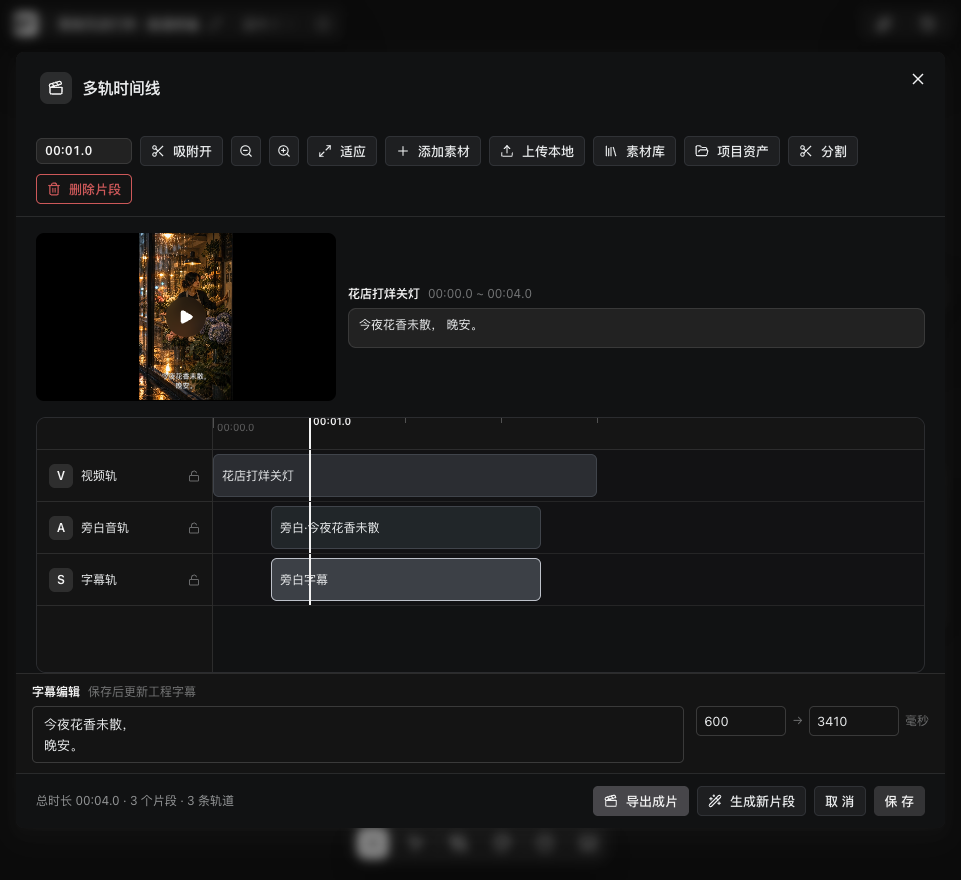
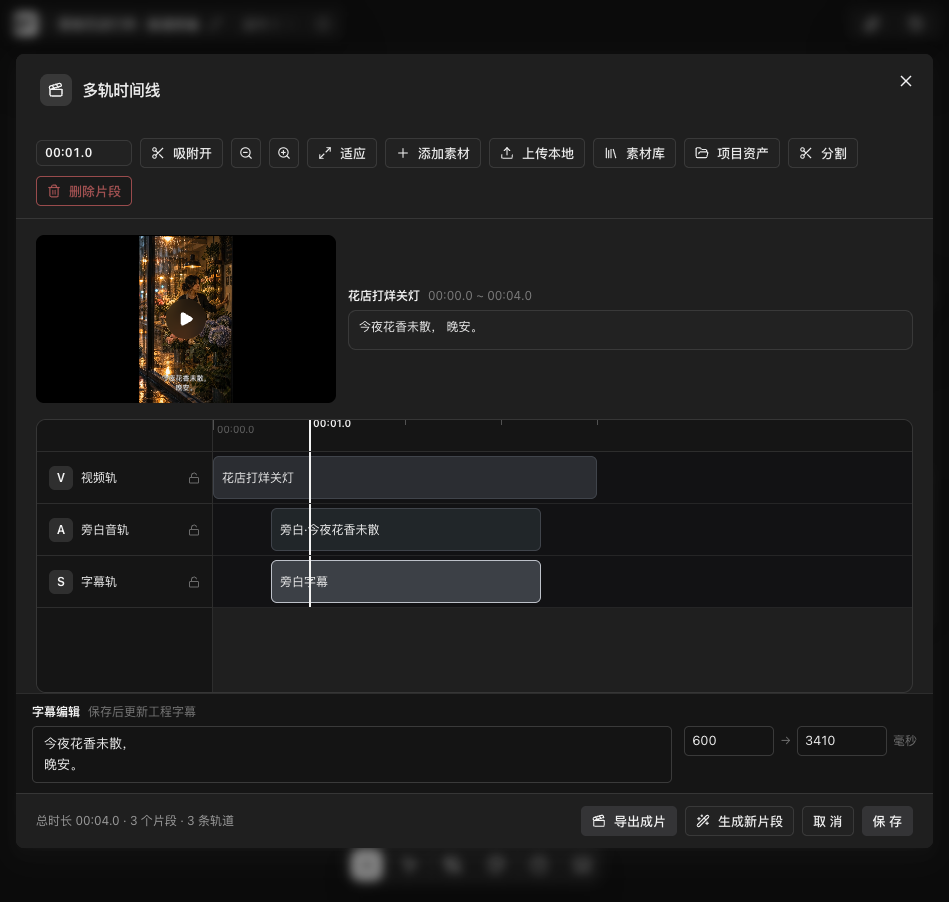
fix(editor): 剪辑面板 - 使用当前主题保持文字可读

diff --git a/web/src/components/canvas/canvas-timeline-dialog.tsx b/web/src/components/canvas/canvas-timeline-dialog.tsx
@@ -6,7 +6,7 @@ import { Tooltip } from "@/components/ui/base/tooltip";
 // 数据源是项目级 TimelineProject：视频/音频节点自动入轨，字幕条目转字幕片段。
 // 交互：拖拽移动片段（吸附播放头/片段边缘）、左右边缘裁剪、删除、播放头跳转。
 
-import { useCallback, useEffect, useMemo, useRef, useState, type MutableRefObject } from "react";
+import { useCallback, useEffect, useMemo, useRef, useState, type CSSProperties, type MutableRefObject } from "react";
 
 import { Captions, Clapperboard, FolderOpen, Library, Lock, LockOpen, Maximize2, MoreHorizontal, Music2, Plus, Scissors, Trash2, Upload, Video, Wand2, ZoomIn, ZoomOut } from "lucide-react";
 import { saveOwnedOrBrowserVideoBlob } from "@/services/desktop-media-save";
@@ -689,6 +689,16 @@ export function CanvasTimelineDialog({
     return (
         <AppModal
             className="canvas-timeline-dialog"
+            style={{
+                "--editor-bg": theme.node.panel,
+                "--editor-panel": theme.node.fill,
+                "--editor-line": theme.toolbar.border,
+                "--editor-text": theme.node.text,
+                "--editor-muted": theme.node.muted,
+                "--editor-button-bg": theme.node.fill,
+                "--editor-button-line": theme.toolbar.border,
+                "--editor-clip-text": canvasThemes.dark.node.text,
+            } as CSSProperties}
             title={title}
             open={open}
             centered

diff --git a/web/src/components/canvas/canvas-media-editors.css b/web/src/components/canvas/canvas-media-editors.css
@@ -1,4 +1,4 @@
-/* Shared editing workspace: dark neutral surfaces and explicit action hierarchy. */
+/* Shared editor defaults; the timeline supplies its active canvas theme. */
 .canvas-subtitle-dialog,
 .canvas-timeline-dialog {
     --editor-bg: #101112;
@@ -6,6 +6,8 @@
     --editor-line: #303236;
     --editor-text: #eceeef;
     --editor-muted: #9b9fa6;
+    --editor-button-bg: #202225;
+    --editor-button-line: #36393e;
 }
 :is(.canvas-subtitle-dialog, .canvas-timeline-dialog) .ant-modal-content,
 :is(.canvas-subtitle-dialog, .canvas-timeline-dialog) .ant-modal-header {
@@ -102,7 +104,7 @@
 }
 .canvas-timeline-dialog [data-timeline-clip-id] {
     background: #303339 !important;
-    color: var(--editor-text) !important;
+    color: var(--editor-clip-text, var(--editor-text)) !important;
     border-color: #484d55 !important;
 }
 .canvas-timeline-dialog [data-timeline-clip-kind="audio"] {
@@ -116,8 +118,8 @@
     border-color: #c4c8d0 !important;
 }
 :is(.canvas-subtitle-dialog, .canvas-timeline-dialog) .ant-btn:not(.ant-btn-primary):not(.ant-btn-dangerous) {
-    background: #202225;
-    border-color: #36393e;
+    background: var(--editor-button-bg);
+    border-color: var(--editor-button-line);
     color: var(--editor-text);
     box-shadow: none;
 }

diff --git a/docs/refactor/assistant-production-delivery-20261019.md b/docs/refactor/assistant-production-delivery-20261019.md
@@ -69,6 +69,10 @@
 
 ![重新导入的三轨时间线](../review-evidence/assistant-production/editable-timeline.png)
 
+时间线外壳与文字采用当前画布主题颜色，避免浅色主题下深色外壳和浅色控件混用：
+
+![浅色时间线](../review-evidence/assistant-production/light-timeline.png)
+
 预览按工程输出画幅显示，字幕复用浏览器导出的 PNG 排版后缩放，避免竖屏小预览中固定字号造成大字多行；原生 FFmpeg 的 libass 字体仍可能与浏览器有像素差异。独立音轨与视频共用预览时钟，支持源内裁剪、音量、淡变、静音、暂停及拖动；媒体尚未准备好时等待，不能让播放头先越过声音。预览不支持超过100%的增益，会明确暂停提示，导出的原有音量合同不变。
 
 本轮复用花店真实素材验证：预览能播到4秒自然停止并重新播放；字幕改为两行后保存重开仍在。界面再次导出为4秒、480×854、24fps、44.1kHz立体声，完整解码通过，本机ASR无预设文本读回“今夜花香未散晚安”；实际帧保留两行。另导出的原生v4工程保留三轨、输出规格和修改后的字幕，四份原媒体保持。没有新增模型或供应商请求。
